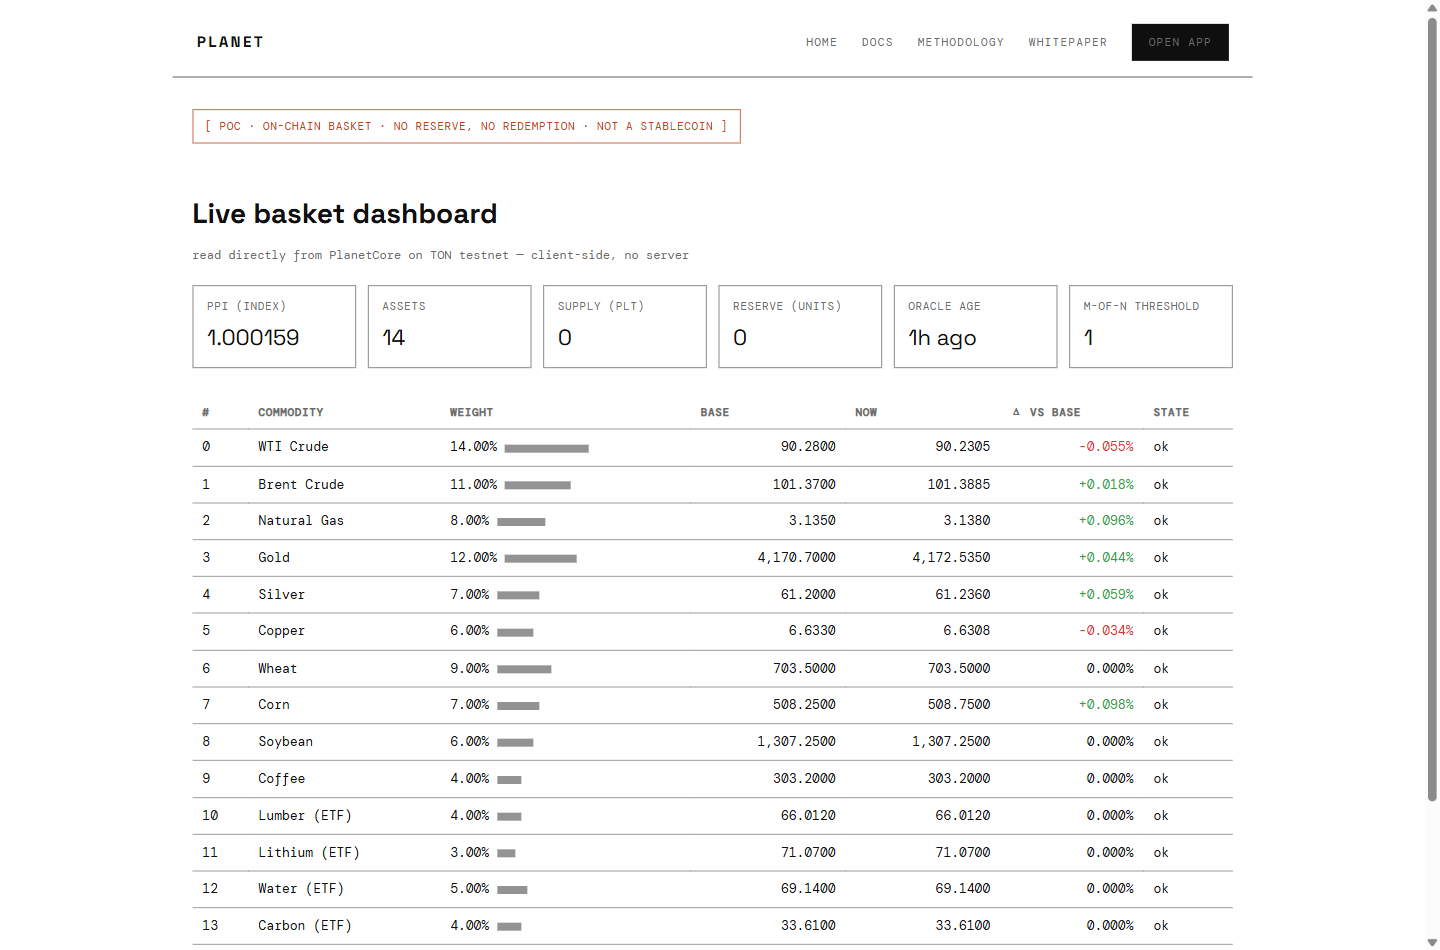
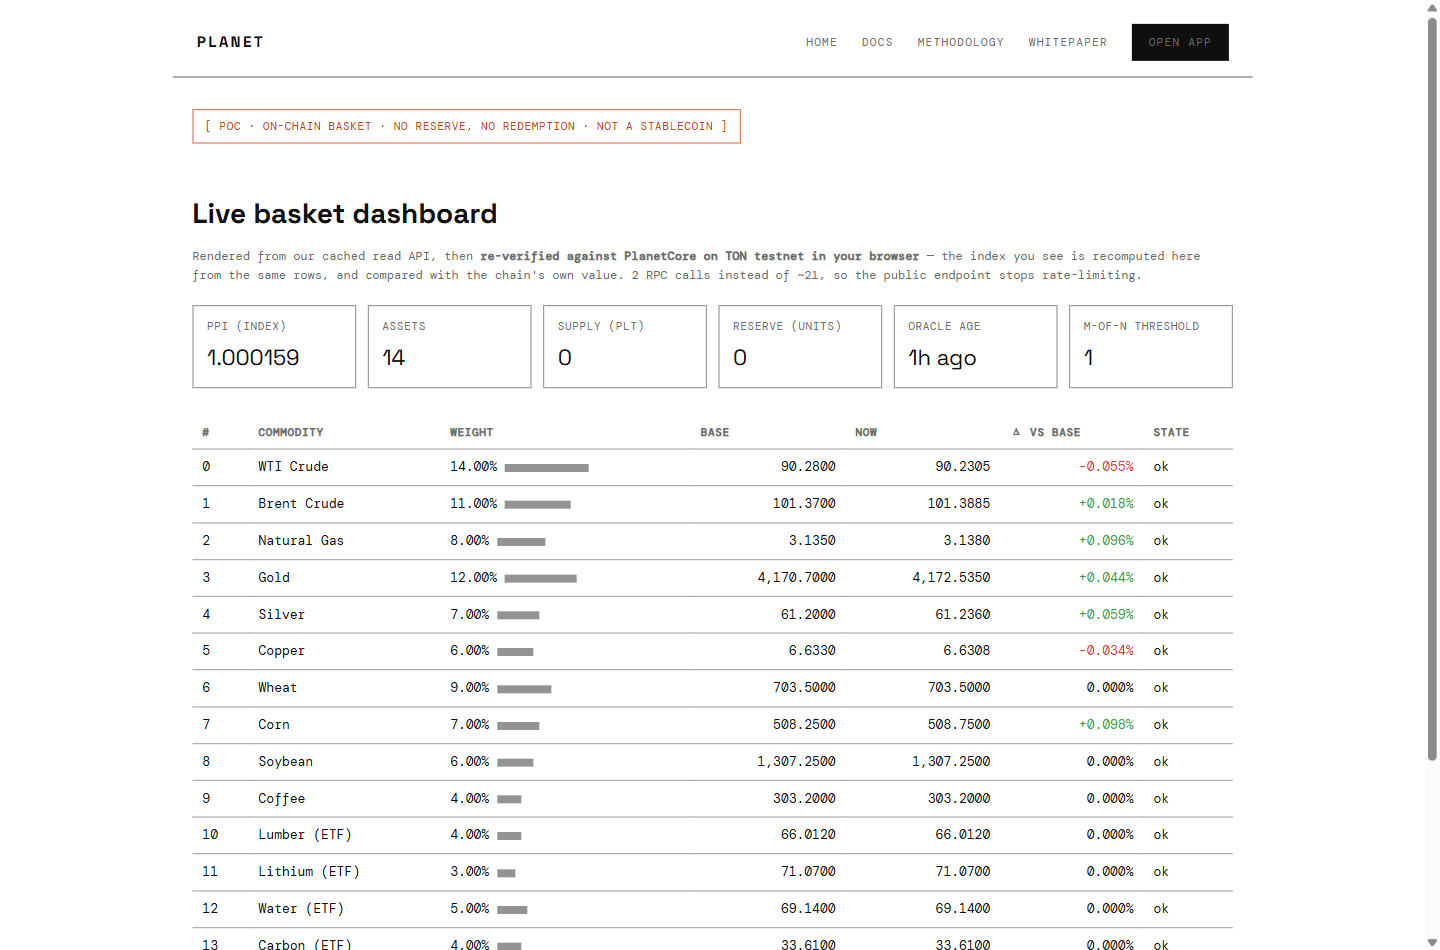
fix(dashboard): the on-chain re-verification is integer fixed-point on-chain vs float in the browser - use a relative (0.01%) tolerance so a 4e-6 drift is not reported as a disagreement

diff --git a/web/dashboard.html b/web/dashboard.html
@@ -190,7 +190,11 @@
         const chainPpi = num(ppiS[0]) / SCALE;
         const sumW = rows.reduce((a, x) => a + x.weight, 0);
         const recomputed = sumW ? rows.reduce((a, x) => a + x.weight * (x.currentPrice / x.basePrice), 0) / sumW : 0;
-        const near = (a, b) => Math.abs(a - b) <= Math.max(1e-6, Math.abs(b) * 1e-6);
+        // The chain computes the index with INTEGER fixed-point arithmetic; this page recomputes
+        // it with floats from the displayed prices. A drift of a few parts-per-million is
+        // therefore expected (observed: 4e-6). The tolerance is relative (0.01%) so the check
+        // still catches anything that actually disagrees.
+        const near = (a, b) => Math.abs(a - b) <= Math.max(1e-4, Math.abs(b) * 1e-4);
         return {
           chainPpi,
           recomputed,
